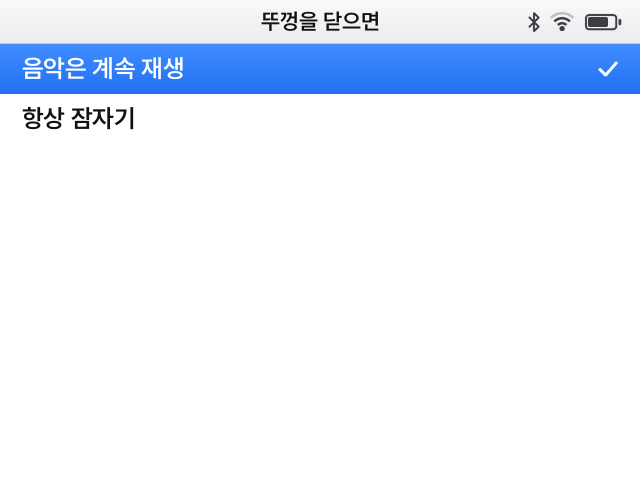
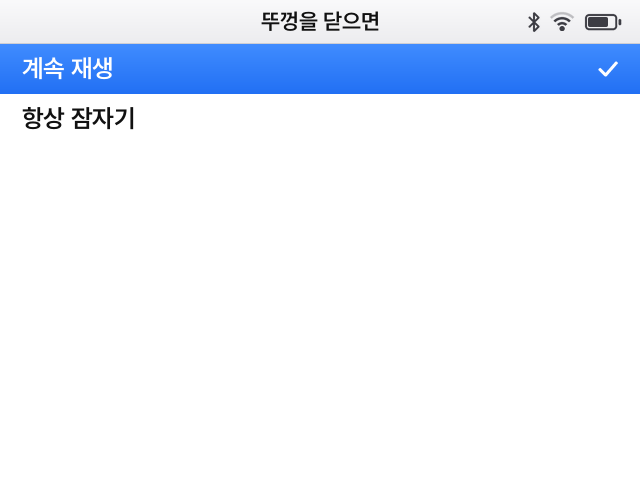
isopod: a video goes on with the lid shut, heard without its picture
Under "Keep Playing" (was "Keep Playing Music") a video that plays is
no longer paused and stopped when the lid closes, and isoPod does not
sleep: mpv keeps its window and drops the picture (vid=no) until the
lid opens. A paused video, or "Always Sleep", waits and sleeps as before.
Paused with the lid shut, it sleeps after 30 s as the music does.

Changed region(s): [[0.0312, 0.0938, 0.3125, 0.1875]]

diff --git a/isopod/daemon/tests/test_protocols.py b/isopod/daemon/tests/test_protocols.py
@@ -828,6 +828,15 @@ class PowerLidTest(unittest.IsolatedAsyncioTestCase):
         await self.power.lid(True)
         self.assertEqual((self.power.screen_on, self.events.slept), (False, 0))
 
+    async def test_a_video_that_plays_keeps_playing_with_lid_shut_unless_it_always_sleeps(self):
+        self.power.video = lambda: True
+        await self.power.lid(True)
+        self.assertEqual(self.events.slept, 0)
+        await self.power.lid(False)
+        self.power.settings["lid_keep_playing"] = False
+        await self.power.lid(True)
+        self.assertEqual(self.events.slept, 1)
+
     async def test_wake_press_after_sleep_turns_screen_on(self):
         await self.power.sleep()
         self.assertFalse(self.power.screen_on)
@@ -1298,6 +1307,37 @@ class VideoTest(unittest.IsolatedAsyncioTestCase):
         await self.app.apps.set_dark(True)
         await self.app.apps.set_dark(False)
         self.assertEqual(self.mpv.commands, [])
+
+    async def test_with_the_lid_shut_a_playing_film_is_heard_without_its_picture(self):
+        film = self.watch()
+        task = asyncio.ensure_future(self.app.apps._watch_playback("video", film))
+        await asyncio.sleep(0.1)
+        await self.app.lid(True)
+        await asyncio.sleep(0.1)
+        self.assertEqual((film["frozen"], self.app.power._suspended), (False, False))
+        self.assertEqual(self.mpv.commands[-1], ["set_property", "vid", "no"])
+        self.assertIsNone(self.app.power._sleep_deadline(), "while it plays isoPod stays up")
+        await self.mpv.pause(True)
+        self.assertIsNotNone(self.app.power._sleep_deadline(), "paused, it sleeps as the music would")
+        await self.app.lid(False)
+        await asyncio.sleep(0.1)
+        self.assertEqual((film["frozen"], self.mpv.commands[-1]), (False, ["set_property", "vid", "auto"]))
+        task.cancel()
+
+    async def test_with_the_lid_shut_a_paused_film_waits_and_isopod_sleeps(self):
+        film = self.watch()
+        film["playing"] = False
+        await self.app.lid(True)
+        await asyncio.sleep(0.1)
+        self.assertEqual((film["frozen"], self.app.power._suspended, self.mpv.commands), (True, True, []))
+
+    async def test_sleep_pauses_a_film_heard_with_the_lid_shut(self):
+        self.watch()
+        await self.app.lid(True)
+        await asyncio.sleep(0.1)
+        await self.app.power._sleep_timer_done()
+        await asyncio.sleep(0.1)
+        self.assertEqual(self.mpv.commands[-1], ["set_property", "pause", True])
 
     async def test_a_paused_film_lets_the_screen_go(self):
         film = self.watch()

diff --git a/isopod/daemon/isopod/app.py b/isopod/daemon/isopod/app.py
@@ -55,7 +55,8 @@ class App:
                            remember=lambda level: spawn(self.system.rocknix_setting("audio.volume", level)),
                            lost=self._route_lost, first=self.system.rocknix_volume)
         self.power = Power(self.state, self.settings, self, sim=self.sim, busy=self.system.computer_connected,
-                           remember=lambda percent: spawn(self.system.rocknix_setting("display.brightness", percent)))
+                           remember=lambda percent: spawn(self.system.rocknix_setting("display.brightness", percent)),
+                           video=lambda: self.apps.front_playing)
         self.battery = Battery(self.state, notify=self._battery_low, sim=self.sim)
         runner = getattr(args, "apps", None) or ("sim" if self.sim else "systemd")
         self.apps = Apps(self.state, self, {k: v for k, v in os.environ.items() if k in APP_ENV_KEYS},
@@ -136,10 +137,14 @@ class App:
     def foreground_changed(self):
         self._update_exclusive()
         self.page_changed("/")
+        # A video that ends with the lid shut is followed by sleep, as the music is.
+        spawn(self.power.playback_changed())
 
     def screen_changed(self, on):
         self._update_exclusive()
-        spawn(self.apps.set_dark(not on))
+        # With the lid shut a video that plays goes on to be heard, as the music does.
+        listen = not on and self.power.lid_closed and self.settings["lid_keep_playing"]
+        spawn(self.apps.set_dark(not on, listen=listen))
 
     def screen_timeout(self, setting):
         """Seconds of quiet before the screen goes dark; 0 means never."""
@@ -152,9 +157,9 @@ class App:
         return self.power.screen_on
 
     def playback_changed(self):
-        """The video in front was paused or went on: the screen's hold changes with it, and
-        so does what a headset is told."""
-        self.power.poke()
+        """The video in front was paused or went on: the screen's hold changes with it, so
+        does sleep with the lid shut, and so does what a headset is told."""
+        spawn(self.power.playback_changed())
         self._tell_headset()
 
     def _tell_headset(self):
@@ -190,6 +195,7 @@ class App:
     def before_sleep(self):
         self.audio.flush()
         spawn(self.music.pause())
+        spawn(self.apps.pause_media())
 
     def close(self):
         """Power is about to go, or isopodd is being stopped."""

diff --git a/isopod/daemon/isopod/apps.py b/isopod/daemon/isopod/apps.py
@@ -227,6 +227,12 @@ class Apps:
         app = self.running.get(self.front)
         return bool(app and app["media"])
 
+    @property
+    def front_playing(self):
+        """A video in front that plays. With the lid shut it goes on, as the music does."""
+        app = self.running.get(self.front)
+        return bool(app and app["media"] and app["playing"] and not app["frozen"])
+
     def is_media(self, key):
         app = self.running.get(key)
         return bool(app and app["media"])
@@ -315,11 +321,23 @@ class Apps:
         if app.pop("held", False) and not self.sim:
             await _mpv(app["control"], ["set_property", "pause", False])
 
-    async def set_dark(self, dark):
-        """A dark screen pauses the app in front; light brings it back where it was."""
+    async def set_dark(self, dark, listen=False):
+        """A dark screen pauses the app in front; light brings it back where it was. A video
+        that plays on to be heard only loses its picture, which mpv then stops decoding; its
+        window stays, or mpv would close it and open another for the picture's return."""
         async with self._lock:
             app = self.running.get(self.front)
-            if app and app["frozen"] != dark:
+            if not app:
+                return
+            if dark and listen and app["control"] and app["playing"] and not app["frozen"]:
+                app["unseen"] = True
+                if not self.sim:
+                    await _mpv(app["control"], ["set_property", "force-window", True])
+                    await _mpv(app["control"], ["set_property", "vid", "no"])
+            elif not dark and app.pop("unseen", False):
+                if not self.sim:
+                    await _mpv(app["control"], ["set_property", "vid", "auto"])
+            elif app["frozen"] != dark:
                 await (self._park(app) if dark else self._unpark(app))
 
     async def _make_room(self):

diff --git a/isopod/daemon/isopod/power.py b/isopod/daemon/isopod/power.py
@@ -78,13 +78,14 @@ class Power:
     LID_SLEEP = 30
     SETTLE = 2.0
 
-    def __init__(self, state, settings, events, sim=False, remember=None, busy=None):
+    def __init__(self, state, settings, events, sim=False, remember=None, busy=None, video=None):
         self.state = state
         self.settings = settings
         self.events = events
         self.sim = sim
         self.remember = remember
         self.busy = busy or (lambda: False)
+        self.video = video or (lambda: False)
         self._remembering = None
         self.backlight = Backlight()
         self.power_key_lock = Inhibitor("handle-power-key", "isoPod handles the power button")
@@ -113,7 +114,8 @@ class Power:
         return self.state.get("screen")["on"]
 
     def playing(self):
-        return self.state.get("player")["state"] == "play"
+        """The music, or a video in front: either goes on with the lid shut."""
+        return self.state.get("player")["state"] == "play" or self.video()
 
     def apply_brightness(self):
         """ROCKNIX keeps a brightness of its own and sets it at boot and on every wake, so

diff --git a/isopod/daemon/isopod/i18n.py b/isopod/daemon/isopod/i18n.py
@@ -102,7 +102,7 @@ STRINGS = {
     "boot_time": ("부팅 시간", "Boot Time"),
     "minutes": ("{n}분", "{n} minutes"),
     "when_lid_closes": ("뚜껑을 닫으면", "When Lid Closes"),
-    "lid_keep": ("음악은 계속 재생", "Keep Playing Music"),
+    "lid_keep": ("계속 재생", "Keep Playing"),
     "lid_sleep": ("항상 잠자기", "Always Sleep"),
     "sleep_now": ("지금 잠자기", "Sleep Now"),
     "restart": ("재시동", "Restart"),

diff --git a/isopod/README.md b/isopod/README.md
@@ -61,8 +61,9 @@ replaces the front end with a small shell built around your music.
   home screen lists it so you can pick it up again; Home pressed there goes straight back
   to it. Music and a video never sound together: starting one pauses the other.
 - **Lid and power**: closing the lid turns the screen off and keeps the music playing,
-  and the app in front pauses until the lid opens. With nothing playing the device
-  sleeps, and opening the lid wakes it. Videos keep the screen on while they play.
+  and a video that plays goes on too, to be heard without its picture. A book waits
+  until the lid opens. With nothing playing the device sleeps, and opening the lid wakes
+  it. Videos keep the screen on while they play.
 
 ## The look
 
